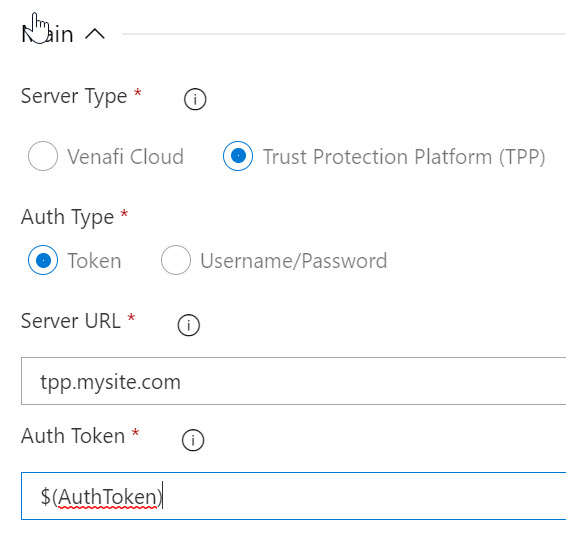
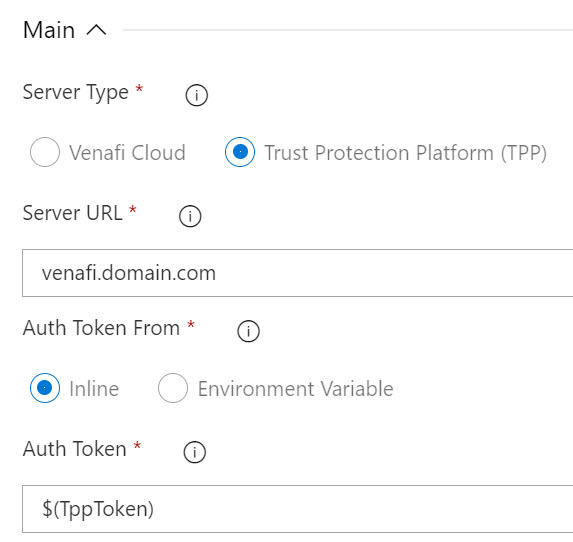
update help, release to public

diff --git a/extension/readme.md b/extension/readme.md
@@ -1,9 +1,9 @@
 # Machine Identity Extension for Azure DevOps
 
 ## Background
-Simplify key generation and enrollment of machine identities (also known as SSL/TLS certificates and keys) that comply with enterprise security policy by using the [Venafi Platform](https://www.venafi.com/platform/trust-protection-platform) or [Venafi Cloud](https://pki.venafi.com/venafi-cloud/).
+Simplify key generation and enrollment of machine identities (also known as SSL/TLS certificates and keys) that comply with enterprise security policy by using the [Venafi Trust Protection Platform](https://www.venafi.com/platform/trust-protection-platform)(TPP) or [Venafi Cloud](https://pki.venafi.com/venafi-cloud/).  You can request, retrieve, and renew certificates.
 
-This extension takes advantage of [VCert](https://github.com/Venafi/vcert).  Basic usage can be found below and in the extension help itself; please see the VCert site for additional parameter details.
+This extension takes advantage of the [VCert](https://github.com/Venafi/vcert) CLI.  Basic usage can be found below and in the extension help itself; please see the VCert site for additional parameter details.
 
 Supported on Windows, Linux, and Mac.
 
@@ -12,10 +12,13 @@ Ensure the following prerequisites are met prior to using this extension:
 - [Venafi Cloud](https://github.com/Venafi/vcert/blob/master/README-CLI-CLOUD.md#prerequisites)
 - [Trust Protection Platform](https://github.com/Venafi/vcert/blob/master/README-CLI-PLATFORM.md#prerequisites)
 ## Usage
-There are different authentication mechanisms depending on if you use TPP or Venafi Cloud.
+There are different authentication mechanisms depending on if you use TPP or Venafi Cloud, see below.  After providing authentication, fill in the action specific fields and you are ready to go!
 ### Venafi Cloud
+Venafi Cloud uses an API Key found in your user preferences.  Go to the API Keys section of your user preferences and 'Generate New Key' if one doesn't already exist.  You can provide this directly or as a secure variable.
 ![Cloud server - Main](https://raw.githubusercontent.com/gdbarron/MachineIdentityExtension/master/extension/images/CloudMain.jpg)
 
 ### Trust Protection Platform
+TPP requires a token which can either be precreated and provided with the 'Inline' option or obtained via a prior Machine Identity Extension task with a 'Get Token' action.
 
-### Common
+![TPP server - Main](https://raw.githubusercontent.com/gdbarron/MachineIdentityExtension/master/extension/images/TppMain.jpg)
+
